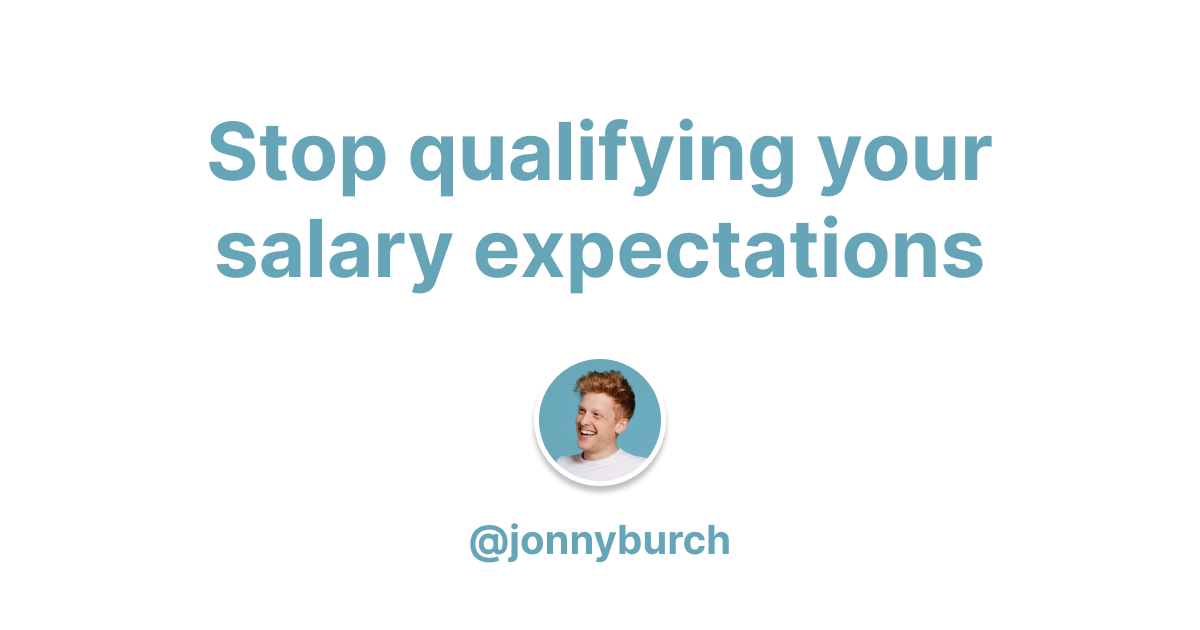
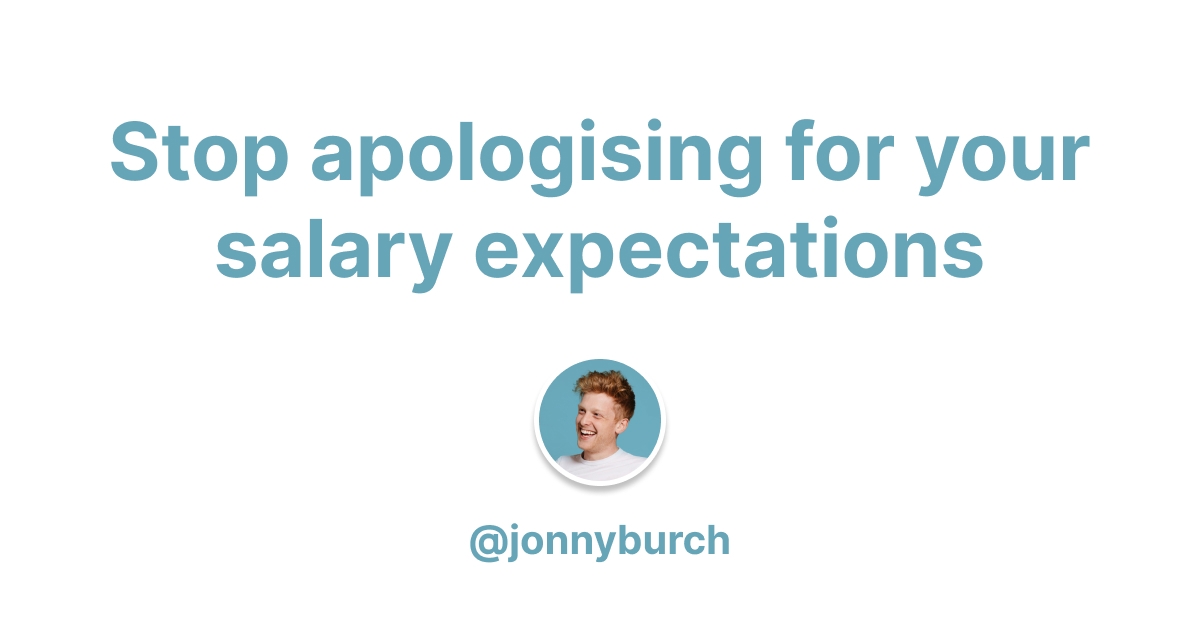
unpublish to tweak

Changed region(s): [[0.0925, 0.181, 0.925, 0.3317]]

diff --git a/_drafts/2020-11-26-stop-apologising-for-your-salary-expectations.md b/_drafts/2020-11-26-stop-apologising-for-your-salary-expectations.md
@@ -1,6 +1,6 @@
 ---
 layout: post
-title: Stop qualifying your salary expectations
+title: Stop apologising for your salary expectations
 description: I know. It's really hard not to.
 date: 2020-11-26 16:42 +0000
 categories: Article
@@ -27,6 +27,8 @@ So given I have had to ask, and you have had to answer, I've been asking and you
 
 And you're consistently terrible at answering the question. As I always have been.
 
+----
+
 It starts ok, with a number usually and a bunch of umming and ahhing.
 
 But then you keep on talking. Mentioning your previous salary (I will never ask previous salary. I don't need to know. If someone asks you what your current/previous salary was, you don't need to tell them.) and how you could probably go a bit lower than that, but not much. How you understood we were a startup so could probably drop down a bit.
@@ -41,7 +43,7 @@ So what we're not doing is making this decision based on a few thousand pounds t
 
 It's the same reason we'll ask about your timelines to move and work from home expectations.
 
-We just want to know that we're in the same ballpark. We'll pay you what we believe you deserve, ideally beating whatever you said initially. If you got an offer, you're worth it.
+We just want to know that we're in the same ballpark. We'll pay you what you deserve, ideally beating whatever you said initially. If you got an offer, you're worth it.
 
 ----
 
